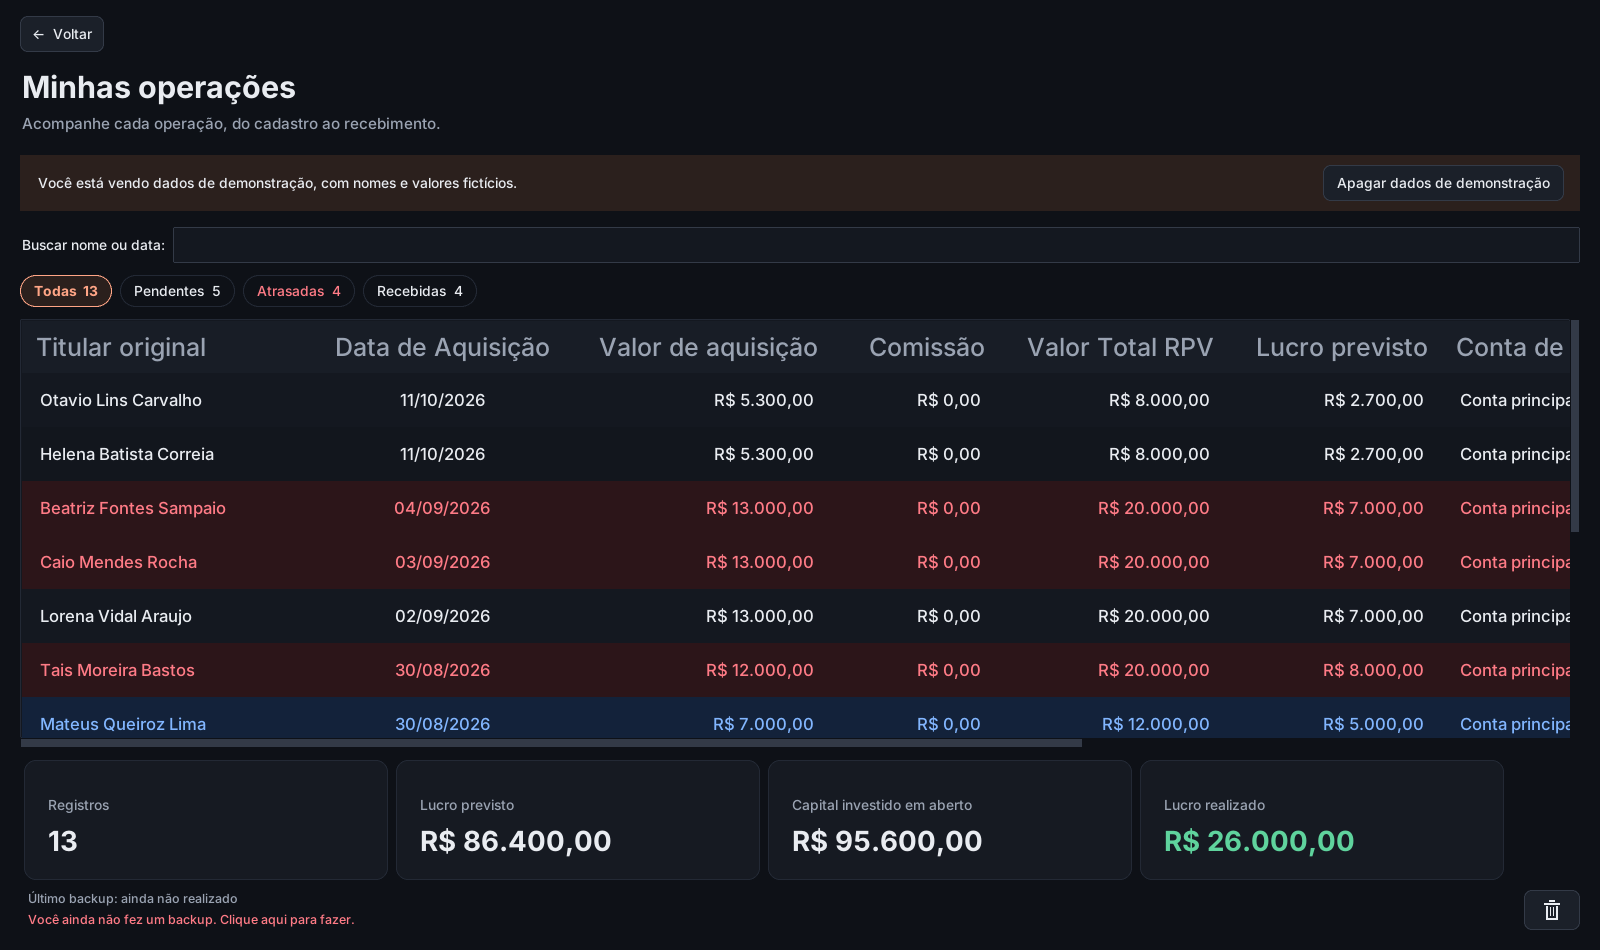
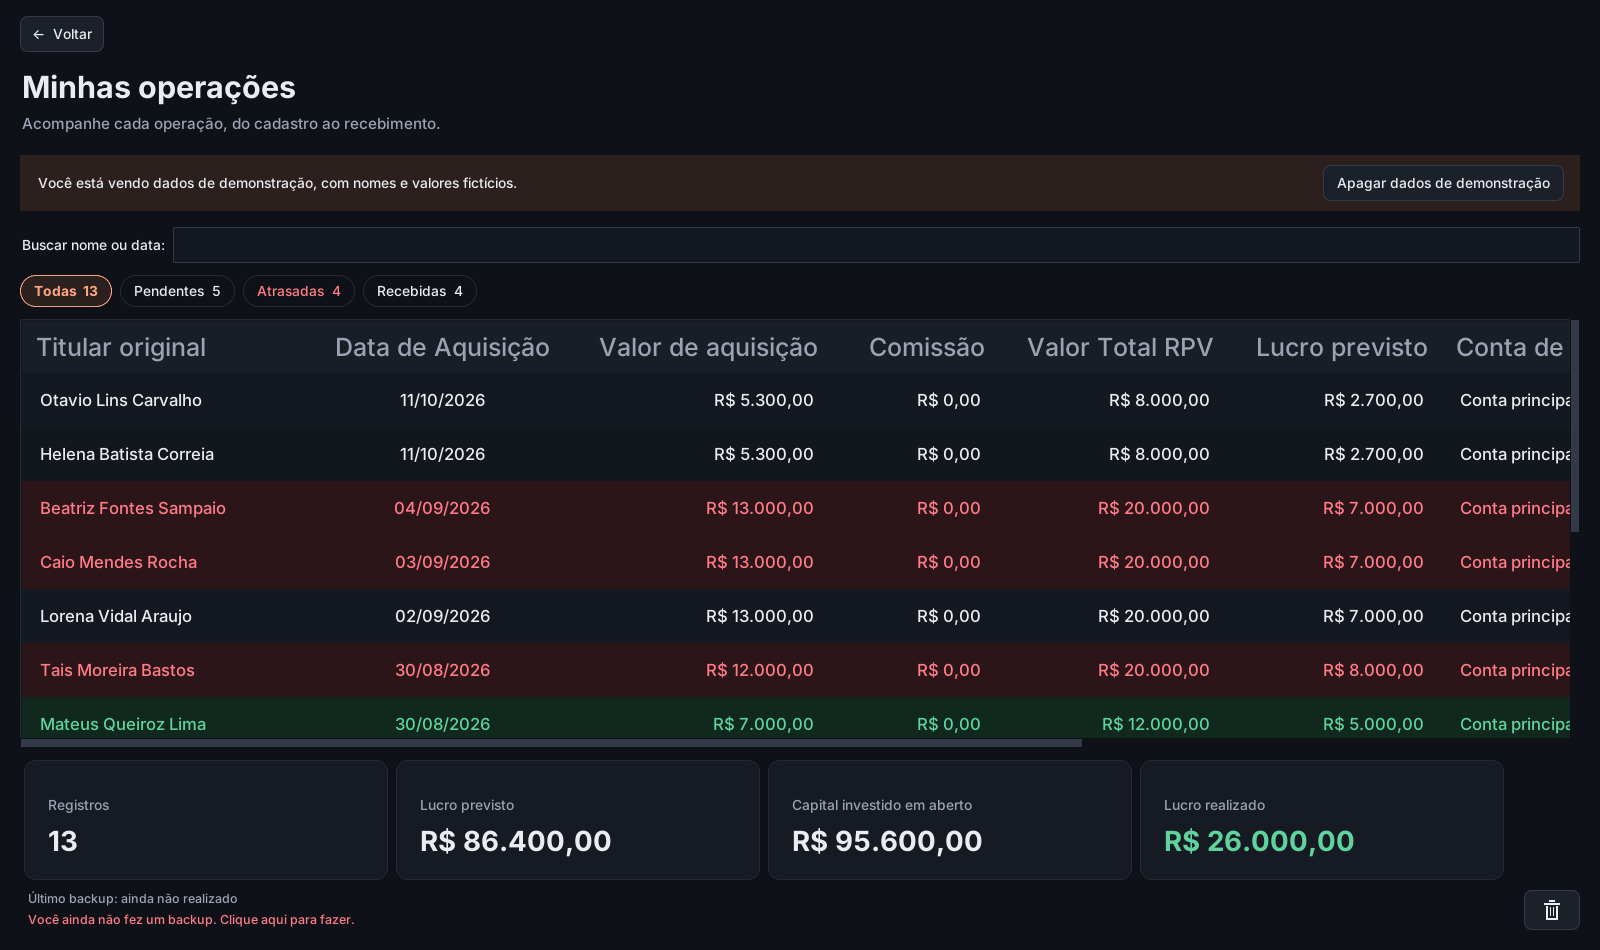
Linhas recebidas em verde e página do gráfico centralizada (0.29.1)
Claude-Session: https://claude.ai/code/session_01QEgXim2PKycGfoVAPPJLFG

Changed region(s): [[0.0, 0.7326, 1.0, 0.7937]]

diff --git a/grafico.py b/grafico.py
@@ -155,18 +155,21 @@ class JanelaGrafico:
         self.tela = ttk.Frame(aplicativo.janela)
         corpo = ttk.Frame(self.tela, padding=(24, 16, 24, 24))
         corpo.pack(fill='both', expand=True)
+        # Toda a página (cabeçalho, legenda, gráfico e detalhe) fica numa coluna centralizada na janela.
+        coluna = ttk.Frame(corpo)
+        coluna.pack(expand=True)
         entradas = sum(e for _, e, _r in self.dados)
         recebidas = sum(r for _, _e, r in self.dados)
-        aplicativo.cabecalho_pagina(corpo, 'Gráfico mensal',
+        aplicativo.cabecalho_pagina(coluna, 'Gráfico mensal',
                                     f'Últimos 12 meses: {quantidade(entradas, "entrada", "entradas")} e '
                                     f'{quantidade(recebidas, "recebida", "recebidas")}.')
-        legenda = ttk.Frame(corpo)
+        legenda = ttk.Frame(coluna)
         legenda.pack(anchor='w', pady=(0, 8))
         for texto, estilo in (('Entradas (data de aquisição)', 'LegendaInvestido.TLabel'),
                               ('Recebidas (data do recebimento)', 'LegendaRecebido.TLabel')):
             ttk.Label(legenda, text='■', style=estilo).pack(side='left', padx=(0, 6))
             ttk.Label(legenda, text=texto).pack(side='left', padx=(0, 20))
-        cartao = ttk.Frame(corpo, style='Cartao.TFrame', padding=16)
+        cartao = ttk.Frame(coluna, style='Cartao.TFrame', padding=16)
         cartao.pack(anchor='w')
         self.grafico = GraficoMensal(cartao, self.dados)
         self.grafico.pack()
@@ -174,7 +177,7 @@ class JanelaGrafico:
         corpo.bind('<Configure>', lambda e: self.grafico.configure(
             width=max(px(corpo, 500), min(px(corpo, LARGURA_MAXIMA), e.width - px(corpo, 80)))), add='+')
         self.detalhe = tk.StringVar(value='Passe o mouse sobre um mês para ver os valores.')
-        ttk.Label(corpo, textvariable=self.detalhe, style='Discreto.TLabel').pack(anchor='w', pady=(10, 0))
+        ttk.Label(coluna, textvariable=self.detalhe, style='Discreto.TLabel').pack(anchor='w', pady=(10, 0))
         self.grafico.bind('<<MesDestacado>>', self.mostrar_detalhe)
         aplicativo.abrir_pagina(self.tela, 'Gráfico mensal')
 

diff --git a/estilos.py b/estilos.py
@@ -130,10 +130,10 @@ def criar_estilos(janela, estilo, fonte):
     estilo.configure('PrevisaoAtrasada.TLabel',background=c['atraso'],foreground=c['vermelho'],font=(fonte,12,'bold'),anchor='center')
     estilo.configure('Atrasada.Operacoes.TCheckbutton',background=c['atraso'])
     estilo.map('Atrasada.Operacoes.TCheckbutton',background=[('active',c['atraso']),('!disabled',c['atraso'])])
-    # Recebida: a linha inteira em azul, o inverso do vermelho das atrasadas.
-    estilo.configure('PrevisaoRecebida.TLabel',background=c['recebida'],foreground=c['azul'],font=(fonte,12,'bold'),anchor='center')
-    estilo.configure('Recebida.Recebido.TCheckbutton',foreground=c['azul'],background=c['recebida'])
-    estilo.map('Recebida.Recebido.TCheckbutton',foreground=[('!disabled',c['azul'])],
+    # Recebida: a linha inteira em verde, o inverso do vermelho das atrasadas.
+    estilo.configure('PrevisaoRecebida.TLabel',background=c['recebida'],foreground=c['verde'],font=(fonte,12,'bold'),anchor='center')
+    estilo.configure('Recebida.Recebido.TCheckbutton',foreground=c['verde'],background=c['recebida'])
+    estilo.map('Recebida.Recebido.TCheckbutton',foreground=[('!disabled',c['verde'])],
                background=[('active',c['recebida']),('!disabled',c['recebida'])])
     estilo.configure('PrevisaoAdiada.TLabel',background=campo,foreground=c['vermelho'],font=(fonte,12),anchor='center')
     estilo.configure('ContaSituacao.TLabel',font=(fonte,12,'bold'),background=campo)

diff --git a/tema.py b/tema.py
@@ -10,14 +10,14 @@ PALETAS = {
                   vermelho='#c02a3b', desabilitado='#8a93a3', primario='#8c1d34', primario_texto='#ffffff',
                   primario_ativo='#a3243f', primario_pressionado='#6a1527', floresta='#8c1d34',
                   sage='#f0f2f5', realce='#fbeae4', linha='#f9fafb', atraso='#fde8eb',
-                  azul='#1f5fae', recebida='#e7f0fb'),
+                  recebida='#e5f4ea'),
     'escuro': dict(fundo='#0e1117', campo='#141820', superficie='#161a22', texto='#e9ecf1',
                    secundario='#9aa3b2', botao='#1b2029', borda='#333a47', borda_suave='#232935',
                    ativo='#232935', selecao='#3a2a27', texto_selecao='#fff4ef', verde='#5fd39d',
                    vermelho='#ff7b86', desabilitado='#6b7484', primario='#ffa586', primario_texto='#1b100c',
                    primario_ativo='#ffb79e', primario_pressionado='#e98d6f', floresta='#ffa586',
                    sage='#181d26', realce='#2b201d', linha='#12161d', atraso='#2c1519',
-                   azul='#82b6ff', recebida='#13223a'),
+                   recebida='#11281e'),
 }
 _modo = 'claro'
 

diff --git a/tela_operacoes.py b/tela_operacoes.py
@@ -226,9 +226,9 @@ class OperacoesMixin:
         self.tabela.delete(*self.tabela.get_children())
         self.tabela.tag_configure('alternada',background=cores()['linha'])
         self.tabela.tag_configure('atrasada',foreground=cores()['vermelho'],background=cores()['atraso'])
-        self.tabela.tag_configure('recebida',foreground=cores()['azul'],background=cores()['recebida'])
+        self.tabela.tag_configure('recebida',foreground=cores()['verde'],background=cores()['recebida'])
         for indice,r in enumerate(registros):
-            # Linha atrasada inteira em vermelho e recebida inteira em azul; o tom alternado não se aplica a elas.
+            # Linha atrasada inteira em vermelho e recebida inteira em verde; o tom alternado não se aplica a elas.
             etiquetas = (('atrasada',) if str(r['id']) in self.atrasadas else ('recebida',) if r['recebimento']
                          else ('alternada',) if indice%2 else ())
             self.tabela.insert('', 'end', iid=str(r['id']), tags=etiquetas, values=(

diff --git a/test_interface.py b/test_interface.py
@@ -396,9 +396,9 @@ class TestInterface(unittest.TestCase):
         self.assertEqual(caixa.cget('text'), '22/10/2026')
         self.assertEqual(caixa.cget('style'), 'Recebida.Recebido.TCheckbutton')
         estilo = ttk.Style()
-        self.assertEqual(str(estilo.lookup('Recebida.Recebido.TCheckbutton', 'foreground')), cores()['azul'])
+        self.assertEqual(str(estilo.lookup('Recebida.Recebido.TCheckbutton', 'foreground')), cores()['verde'])
         self.assertIn('bold', str(estilo.lookup('Recebida.Recebido.TCheckbutton', 'font')))
-        # Recebida: a linha inteira fica azul, como a atrasada fica vermelha.
+        # Recebida: a linha inteira fica verde, como a atrasada fica vermelha.
         self.assertEqual(tabela.item(str(identificador), 'tags'), ('recebida',))
         self.assertEqual(str(tabela.tag_configure('recebida', 'background')), cores()['recebida'])
         self.assertEqual(self.programa.acoes_linhas[str(identificador)][0].cget('style'), 'PrevisaoRecebida.TLabel')

diff --git a/app.py b/app.py
@@ -192,7 +192,7 @@ class Aplicativo(NavegacaoMixin, InicioMixin, OperacoesMixin, RegistroMixin, Arq
         if hasattr(self,'tabela') and self.tabela.winfo_exists():
             self.tabela.tag_configure('alternada',background=c['linha'])
             self.tabela.tag_configure('atrasada',foreground=c['vermelho'],background=c['atraso'])
-            self.tabela.tag_configure('recebida',foreground=c['azul'],background=c['recebida'])
+            self.tabela.tag_configure('recebida',foreground=c['verde'],background=c['recebida'])
         if self.janela_contas is not None and self.janela_contas.tela.winfo_exists():
             self.janela_contas.atualizar_situacoes()
 

diff --git a/versao.py b/versao.py
@@ -1,3 +1,3 @@
 """Versão da entrega publicada no GitHub com a tag correspondente."""
-VERSAO = '0.29.0'
+VERSAO = '0.29.1'
 CONTATO = 'vitoran312@gmail.com'  # Contato do autor, mostrado na janela Sobre.

diff --git a/README.md b/README.md
@@ -1,4 +1,4 @@
-# Gestor de RPV — 0.29.0
+# Gestor de RPV — 0.29.1
 
 Aplicativo pessoal para Windows, em Python com Tkinter e SQLite. Cada computador
 mantém seus próprios dados, sem servidor ou sincronização. Não exige pacotes extras.
@@ -14,7 +14,7 @@ python app.py
 
 Mantenha todos os arquivos `.py` e a pasta `recursos` juntos. Essa pasta contém o ícone da Vitoran Tech.
 A tela inicial tem os botões **Nova entrada**, **Minhas operações**,
-**Contas de recebimento** e **Sair**. A assinatura **Vitoran Tech · v0.29.0**, acompanhada do emblema com 50% de opacidade,
+**Contas de recebimento** e **Sair**. A assinatura **Vitoran Tech · v0.29.1**, acompanhada do emblema com 50% de opacidade,
 aparece no canto inferior direito.
 O número é lido da versão do programa e acompanha cada atualização.
 O programa funciona em uma única janela, que abre maximizada. **Minhas operações**, **Contas de
@@ -95,7 +95,7 @@ aparência; o menu **Exibir** do histórico oferece as mesmas opções.
 - **Editar → Editar registro / Excluir registro**: edita uma linha ou envia as selecionadas à lixeira.
 - **Exibir → Gráfico mensal**: barras em 3D dos últimos 12 meses com a quantidade de entradas (pela data
   de aquisição, em tom neutro) e de recebidas (pela data do recebimento, em verde). Cada barra mostra o
-  número no topo; passe o mouse sobre um mês para ver os dois totais.
+  número no topo; passe o mouse sobre um mês para ver os dois totais. A página fica centralizada na janela.
 - **Exibir → Tema claro / Tema escuro**: muda o tema de todas as janelas,
   inclusive formulários, calendários, menus de contexto e calculadora.
   A escolha é lembrada e o aplicativo volta a abrir no último tema usado.
@@ -182,7 +182,7 @@ com altura das linhas e largura da janela ajustadas para a leitura.
   pela data do computador: ao abrir o programa, ao voltar a cada página e na virada do dia, mesmo com
   o programa aberto. A **linha inteira** fica com fundo e texto vermelhos, a tela inicial avisa quantas
   operações estão atrasadas (clique no aviso para ver só elas) e o filtro Atrasadas também fica vermelho.
-  Do lado oposto, a linha de uma operação **recebida** fica inteira azul, com fundo e texto azuis.
+  Do lado oposto, a linha de uma operação **recebida** fica inteira verde, com fundo e texto verdes.
   No tema claro, os títulos das colunas ficam em negrito.
 - Clique nos cabeçalhos para ordenar: valores e datas começam do maior/mais recente
   para o menor; nomes e contas começam em ordem alfabética. O segundo clique inverte

diff --git a/CHANGELOG.md b/CHANGELOG.md
@@ -1,5 +1,11 @@
 # Histórico de versões
 
+## 0.29.1
+
+- Operações recebidas com a linha inteira em verde (antes azul), nos dois temas. Contraste WCAG AA:
+  4,7:1 no claro e 8,4:1 no escuro.
+- Página do gráfico mensal centralizada na janela.
+
 ## 0.29.0
 
 - Minhas operações: no tema claro, os títulos das colunas ficam em negrito.
